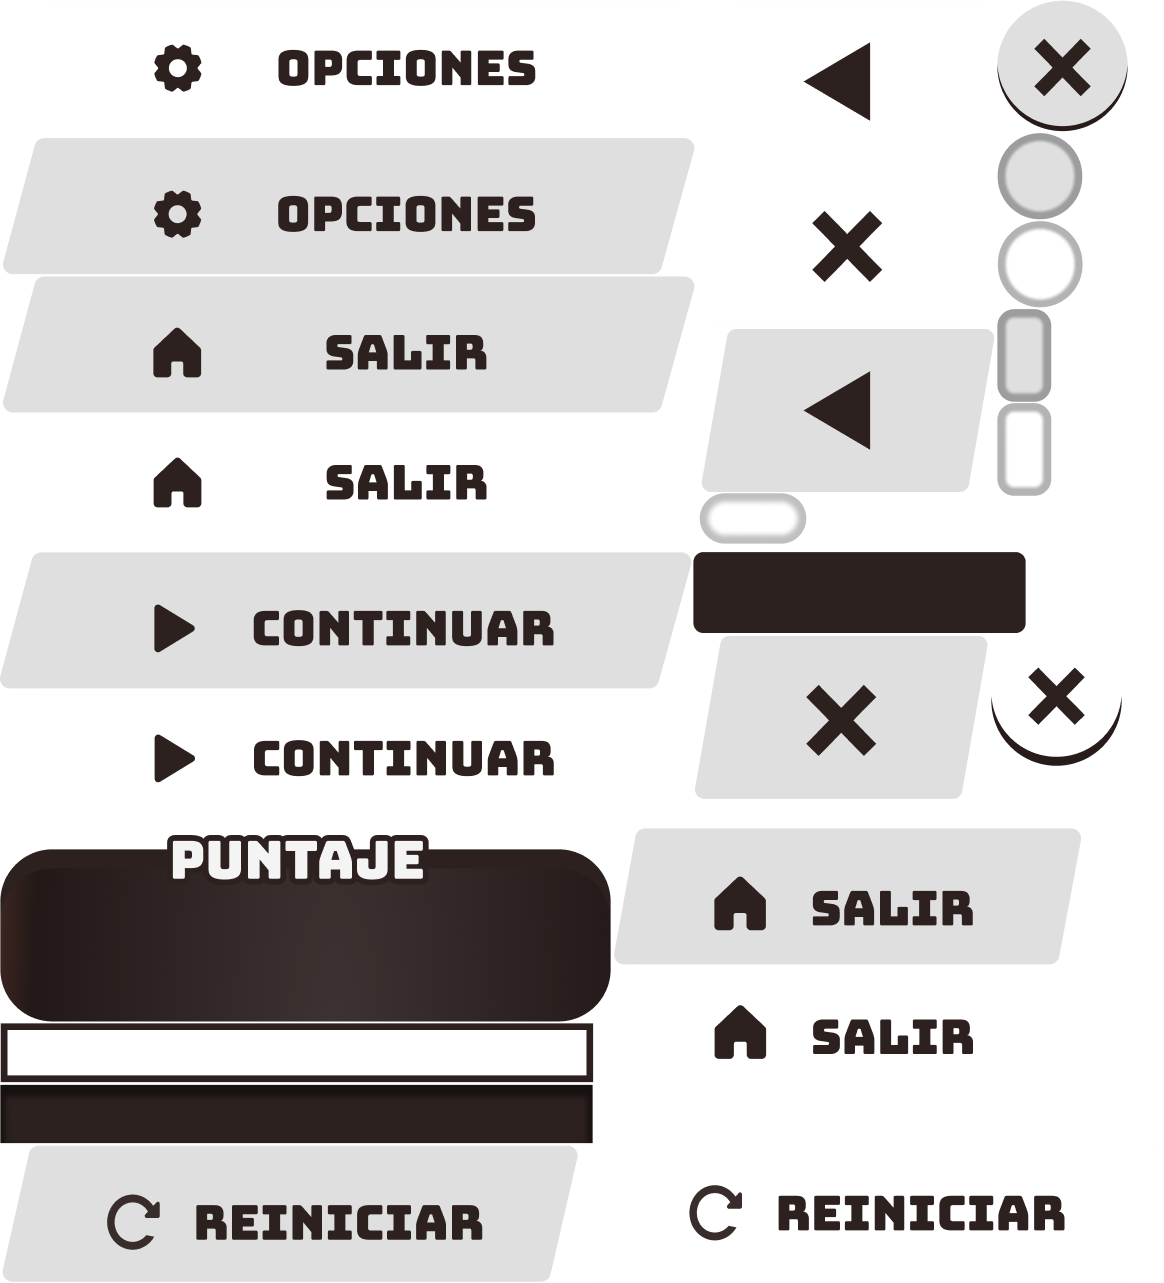
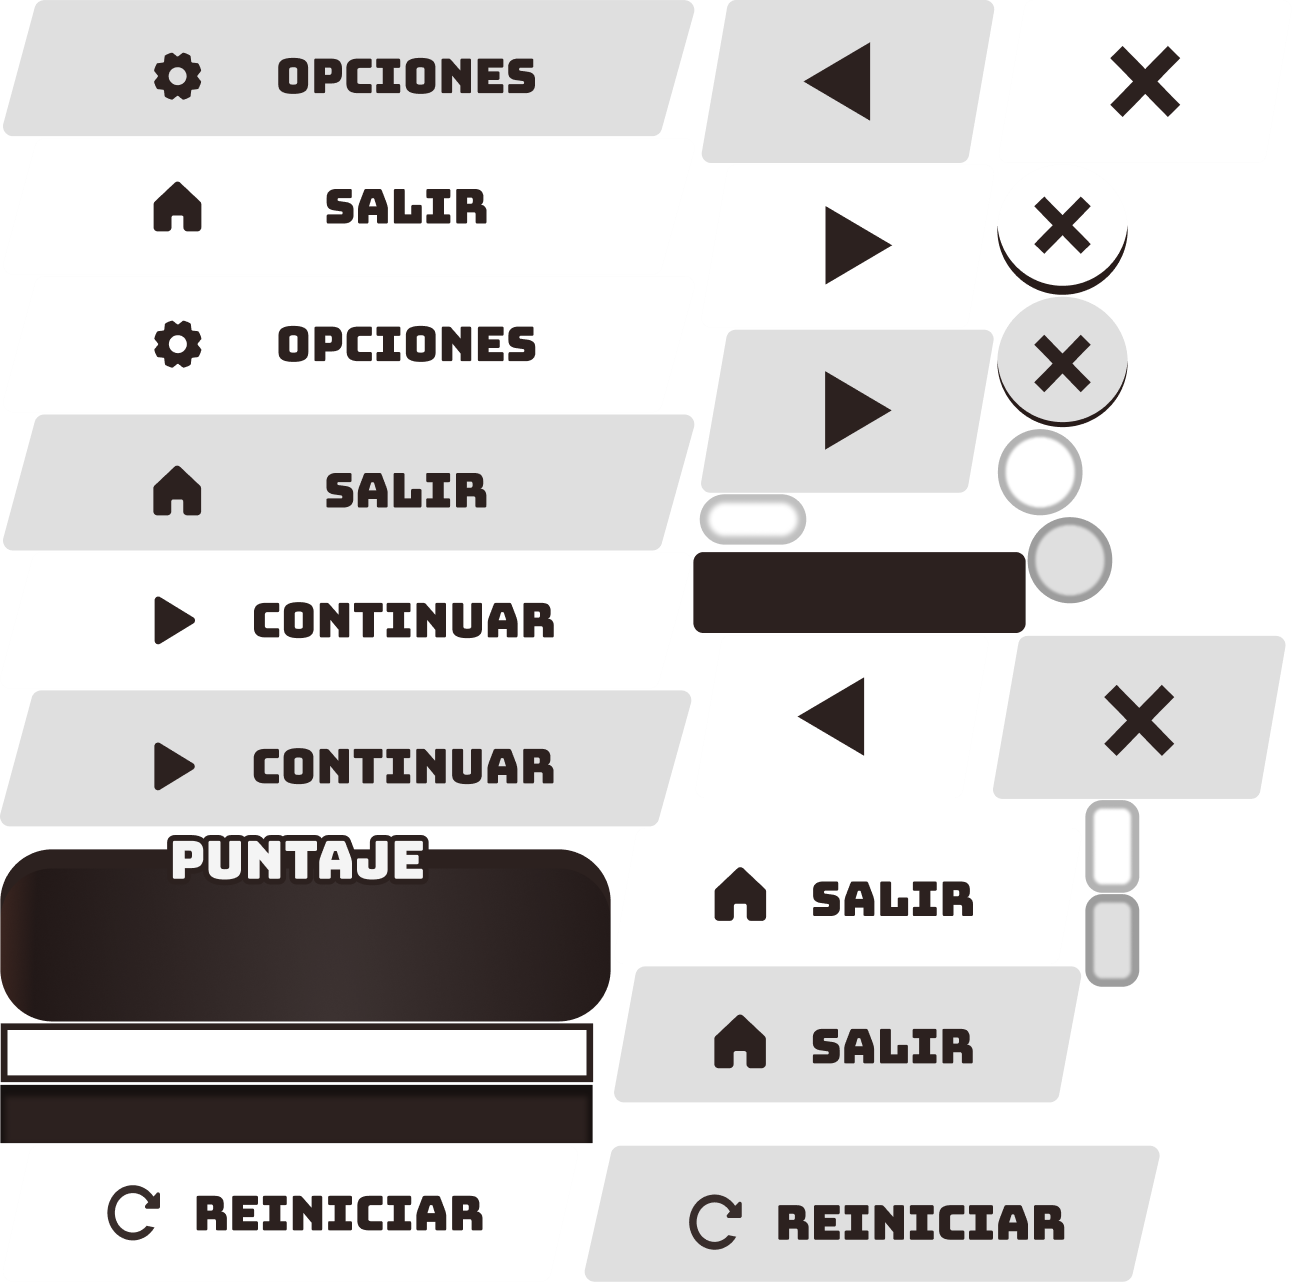
tutorial

diff --git a/src/scripts/components/panel.js b/src/scripts/components/panel.js
@@ -77,60 +77,42 @@ export class Panel
     }
 
     createFirstTutorialPage(dim){
-        let text1 = this.scene.add.text(dim/2, 380, 'COMBINA DOS BOCADITOS IGUALES PARA \nCREAR UNO MÁS GRANDE Y GANAR PUNTOS', { 
-            font: '400 20px Bungee', color: '#FCF4D9', align: 'center' }).setOrigin(0.5);
-        text1.setStroke('#560F0C', 8).setLineSpacing(-5).setShadow(0, 4, '#560F0C', 2, true, false).setWordWrapWidth(this.panel.displayWidth-450);
+        let text1 = this.scene.add.text(dim/2-20, 310, 'TOCA LA PANTALLA, CLICK O BARRA ESPACIADORA\nTAN RÁPIDO COMO PUEDAS PARA AUMENTAR TU VELOCIDAD', { 
+            font: '400 25px Bungee', color: '#FCF4D9', align: 'center' }).setOrigin(0.5);
+        text1.setStroke('#2C211F', 8).setLineSpacing(-5).setWordWrapWidth(this.panel.displayWidth);
 
-        let image1 = this.scene.add.image(dim/2-200, 450, 'tutorialUI', 'dish_01.png').setScale(.65);
-        let sumText1 = this.scene.add.text(dim/2-100, 450, '+', { 
-            font: '400 50px Bungee', color: '#FCF4D9', align: 'center' }).setOrigin(0.5);
-        sumText1.setStroke('#560F0C', 13).setShadow(0, 4, '#560F0C', 2, true, false);
-        let image2 = this.scene.add.image(dim/2, 450, 'tutorialUI', 'dish_01.png').setScale(.65);
-        let equalText1 = this.scene.add.text(dim/2+100, 450, '=', { 
-            font: '400 50px Bungee', color: '#FCF4D9', align: 'center' }).setOrigin(0.5);
-        equalText1.setStroke('#560F0C', 13).setShadow(0, 4, '#560F0C', 2, true, false);
-        let image3 = this.scene.add.image(dim/2+200, 450, 'tutorialUI', 'dish_02.png').setScale(.65);
+        let image1 = this.scene.add.image(dim/2-235, 460, 'tutorialUI', 'run.png').setScale(.72);
+        let image2 = this.scene.add.image(dim/2-30, 460, 'tutorialUI', 'tap.png').setScale(.72);
+        let image3 = this.scene.add.image(dim/2+130, 460, 'tutorialUI', 'leftclick.png').setScale(.72);
+        let image4 = this.scene.add.image(dim/2+295, 460, 'tutorialUI', 'spacebar.png').setScale(.72);
+     
+        let text2 = this.scene.add.text(dim/2-20, 650, 'ACELERA PARA QUE TU VELOCIDAD NO CAIGA EN LA ZONA\nROJA DE LA BARRA O TROPEZARÁS Y PERDERÁS\n¡LLEGA TAN LEJOS COMO PUEDAS!', { 
+            font: '400 25px Bungee', color: '#FCF4D9', align: 'center' }).setOrigin(0.5);
+        text2.setStroke('#2C211F', 8).setLineSpacing(-5);
 
-        let image4 = this.scene.add.image(dim/2-200, 530, 'tutorialUI', 'dish_02.png').setScale(.65);
-        let sumText2 = this.scene.add.text(dim/2-100, 530, '+', { 
-            font: '400 50px Bungee', color: '#FCF4D9', align: 'center' }).setOrigin(0.5);
-        sumText2.setStroke('#560F0C', 13).setShadow(0, 4, '#560F0C', 2, true, false);
-        let image5 = this.scene.add.image(dim/2, 530, 'tutorialUI', 'dish_02.png').setScale(.65);
-        let equalText2 = this.scene.add.text(dim/2+100, 530, '=', { 
-            font: '400 50px Bungee', color: '#FCF4D9', align: 'center' }).setOrigin(0.5);
-            equalText2.setStroke('#560F0C', 13).setShadow(0, 4, '#560F0C', 2, true, false);
-        let image6 = this.scene.add.image(dim/2+200, 530, 'tutorialUI', 'dish_03.png').setScale(.55);
+        let image5 = this.scene.add.image(dim/2, 760, 'tutorialUI', 'speedbar.png').setScale(.72);
 
-        let text2 = this.scene.add.text(dim/2, 620, 'EVITA QUE SE LLENE EL ESCENARIO PARA \nNO PERDER Y ROMPER TUS RECORDS', { 
-            font: '400 20px Bungee', color: '#FCF4D9', align: 'center' }).setOrigin(0.5);
-        text2.setStroke('#560F0C', 8).setLineSpacing(-5).setShadow(0, 4, '#560F0C', 2, true, false).setWordWrapWidth(this.panel.displayWidth-450);
-
-        let image7 = this.scene.add.image(dim/2, 705, 'tutorialUI', 'dish_05.png').setScale(.55);
-        let image8 = this.scene.add.image(dim/2, 705, 'tutorialUI', 'barra.png').setScale(.55);
-
-        const textContainer1 = this.scene.add.container(0, 0, 
-            [text1, image1, sumText1, image2,  equalText1, image3, image4, sumText2, image5, equalText2, image6, text2, image7, image8]).setVisible(false);
+        const textContainer1 = this.scene.add.container(0, 0, [text1, image1, image2, image3, image4, text2, image5]).setVisible(false);
         return textContainer1
     }
 
     createSecondTutorialPage(dim){
-        let text1 = this.scene.add.text(dim/2, 380, 'APROVECHA LOS ITEMS DE APOYO PARA \nEVITAR SER DERROTADO', { 
-            font: '400 20px Bungee', color: '#FCF4D9', align: 'center' }).setOrigin(0.5);
-        text1.setStroke('#560F0C', 8).setLineSpacing(-5).setShadow(0, 4, '#560F0C', 2, true, false).setWordWrapWidth(this.panel.displayWidth-450);
+        let text1 = this.scene.add.text(dim/2-20, 325, 'NO CHOQUES CON LOS OBATÁCULOS O PERDERÁS UN CORAZÓN\nUSA EL BOTÓN DE SALTO EN LA PANTALL O "ARRIBA" EN EL \n TECLADO PARA ESQUIVARLOS', { 
+            font: '400 25px Bungee', color: '#FCF4D9', align: 'center' }).setOrigin(0.5);
+        text1.setStroke('#2C211F', 8).setLineSpacing(-5);
 
-        let image1 = this.scene.add.image(dim/2, 460, 'tutorialUI', 'bomb.png').setScale(.65);
+        let image1 = this.scene.add.image(dim/2-240, 490, 'tutorialUI', 'jumping.png').setScale(.72);
+        let image2 = this.scene.add.image(dim/2+55, 485, 'tutorialUI', 'jumpbtn.png').setScale(.72);
+        let image3 = this.scene.add.image(dim/2+240, 480, 'tutorialUI', 'upbtn.png').setScale(.72);
         
-        let text2 = this.scene.add.text(dim/2, 530, 'COLOCA EL AJÍ BOMBA Y HAZLE CLICK \nPARA QUE ESTALLE EMPUJANDO TODO \nPERO NO DEJES QUE DOS SE TOQUEN', { 
-            font: '400 20px Bungee', color: '#FCF4D9', align: 'center' }).setOrigin(0.5);
-        text2.setStroke('#560F0C', 8).setLineSpacing(-5).setShadow(0, 4, '#560F0C', 2, true, false).setWordWrapWidth(this.panel.displayWidth-450);
+        let text2 = this.scene.add.text(dim/2-20, 645, 'APROVECHA LOS ZAPATOS TURBO PARA SUBIR TU VELOCIDAD\nO RECUPERA CORAZONES PARA NO PERDER', { 
+            font: '400 25px Bungee', color: '#FCF4D9', align: 'center' }).setOrigin(0.5);
+        text2.setStroke('#2C211F', 8).setLineSpacing(-5);
+        
+        let image4 = this.scene.add.image(dim/2-130, 760, 'tutorialUI', 'pupturbo.png').setScale(.72);
+        let image5 = this.scene.add.image(dim/2+125, 760, 'tutorialUI', 'pupheart.png').setScale(.72);
 
-        let image2 = this.scene.add.image(dim/2, 630, 'tutorialUI', 'palillos.png').setScale(.65);
-        
-        let text3 = this.scene.add.text(dim/2, 710, 'RECIBE LOS PALILLOS Y HAZ CLICK A UNA \nFICHA PROBLEMÁTICA PARA ELIMINARLA', { 
-            font: '400 20px Bungee', color: '#FCF4D9', align: 'center' }).setOrigin(0.5);
-        text3.setStroke('#560F0C', 8).setLineSpacing(-5).setShadow(0, 4, '#560F0C', 2, true, false).setWordWrapWidth(this.panel.displayWidth-450);
-        
-        const textContainer2 = this.scene.add.container(0, 0, [text1, image1, text2, image2, text3]).setVisible(false);
+        const textContainer2 = this.scene.add.container(0, 0, [text1, image1, image2, image3, text2, image4, image5]).setVisible(false);
         return textContainer2
     }
 
@@ -138,18 +120,19 @@ export class Panel
         this.instructionIndex = 0;
         this.instructionTexts = [this.createFirstTutorialPage(dim), this.createSecondTutorialPage(dim)];
 
-        let closeImage = this.scene.add.image(dim-170, 250, 'panelUI', 'cerrar_1.png').setInteractive().setScale(.72);
+        let closeImage = this.scene.add.image(dim-110, 210, 'panelUI', 'cerrar_1.png').setInteractive().setScale(.72);
         closeImage.on('pointerdown', () => { closeImage.setTexture('panelUI', 'cerrar_2.png'); });
         closeImage.on('pointerup', () => {
             closeImage.setTexture('panelUI', 'cerrar_1.png');
             this.hideInstructions();
         });
 
-        this.leftArrow = this.scene.add.image(dim/2-75, dim-245, 'panelUI', 'boton_izquierda.png').setInteractive().setScale(.72);
-        this.leftArrow.on('pointerdown', () => this.leftArrowClicked());
+        this.leftArrow = this.scene.add.image(dim/2-120, dim-200, 'panelUI', 'izq_1.png').setInteractive().setScale(.72);
+        this.leftArrow.on('pointerdown', () => { this.leftArrow.setTexture('panelUI', 'izq_2.png') });
+        this.leftArrow.on('pointerup', () => { this.leftArrow.setTexture('panelUI', 'izq_1.png'); this.leftArrowClicked(); });
 
-        this.rightArrow = this.scene.add.image(dim/2+75, dim-245, 'panelUI', 'boton_derecha.png').setInteractive().setScale(.72);
-        this.rightArrow.on('pointerdown', () => this.rightArrowClicked());
+        this.rightArrow = this.scene.add.image(dim/2+95, dim-200, 'panelUI', 'der_1.png').setInteractive().setScale(.72);
+        this.rightArrow.on('pointerup', () => this.rightArrowClicked());
 
         this.instructionsContainer = this.scene.add.container(0, 0, 
             [closeImage, this.instructionTexts[0], this.instructionTexts[1], this.leftArrow, this.rightArrow]);
@@ -296,7 +279,7 @@ export class Panel
         for(let i = 1; i < this.credits[index].length; i++){
             let name = this.scene.add.text(x, y+20*i, this.credits[index][i], { 
                 font: '400 18px Bungee', color: '#FFFFFF', align: 'center' }).setOrigin(0.5);
-            name.setStroke('#2D1935', 9);
+            name.setStroke('#2C211F', 9);
             names.push(name);
         }
 
@@ -416,14 +399,19 @@ export class Panel
             this.instructionTexts[i].setVisible(false);
         }
         this.leftArrow.setVisible(this.instructionIndex != 0);
-        this.rightArrow.setTexture('panelUI', this.instructionIndex != this.instructionTexts.length - 1 ? 'boton_derecha.png' : 'boton_cerrar.png');
+        if (this.instructionIndex != this.instructionTexts.length - 1) {
+            this.rightArrow.setTexture('panelUI', 'der_1.png');
+            this.rightArrow.on('pointerdown', () => { this.rightArrow.setTexture('panelUI', 'der_2.png'); });
+        } else {
+            this.rightArrow.setTexture('panelUI', 'x_1.png');
+            this.rightArrow.on('pointerdown', () => { this.rightArrow.setTexture('panelUI', 'x_2.png'); });
+        }
+
         this.instructionTexts[this.instructionIndex].setVisible(true);
-        this.intructionsTitle.setText('Tutorial ' + (this.instructionIndex + 1) + '/2');
-        this.instructionsShadowTitle.setText('Tutorial ' + (this.instructionIndex + 1) + '/2');
     }
 
     showInstructions(callback){
-        this.panel.setTexture('panelInstructions');
+        this.panel.setTexture('panelInstructions').setPosition(this.gameWidth/2, this.gameWidth/2-20);
         this.instructionIndex = 0;
         this.setInstructionsText();
         if (callback != null) this.hideInstructions.callback = callback;
@@ -437,6 +425,7 @@ export class Panel
         //this.scene.audioManager.buttonClick.play();
         this.instructionsContainer.setVisible(false);
         this.panelContainer.setVisible(false);
+        this.panel.setTexture('panel').setPosition(this.gameWidth/2, this.gameWidth/2);
         if (this.hideInstructions.callback) this.hideInstructions.callback();
     }
 

diff --git a/src/scripts/scenes/uiScene.js b/src/scripts/scenes/uiScene.js
@@ -14,7 +14,7 @@ export class UIScene extends Phaser.Scene
         this.load.image('panelCredits', `./src/images/ui/menus/fondo_creditos.png`);
         this.load.image('panelInstructions', `./src/images/ui/menus/fondo_instrucciones.png`);
         this.load.atlas('panelUI', `./src/images/ui/panel_ui.png`, `./src/images/ui/panel_ui.json`);
-        //this.load.atlas('tutorialUI', `./src/images/ui/tutorial_ui.png`, `./src/images/ui/tutorial_ui.json`);
+        this.load.atlas('tutorialUI', `./src/images/ui/tutorial_ui.png`, `./src/images/ui/tutorial_ui.json`);
         this.load.image('leapLogo', `./src/images/ui/leap_logo.png`);
         //this.load.image('logoPChuJoy', `./src/images/logo_pchujoy.jpg`);
         this.load.image('fade', `./src/images/black_alpha_40.png`);
@@ -39,7 +39,7 @@ export class UIScene extends Phaser.Scene
 
         this.panel = new Panel(this);
         this.panel.create(this.gameWidth);
-        //this.panel.createInstructionsPanel(this.gameWidth);
+        this.panel.createInstructionsPanel(this.gameWidth);
         this.panel.createOptionsPanel(this.gameWidth);
         this.panel.createCreditsPanel(this.gameWidth);
 
